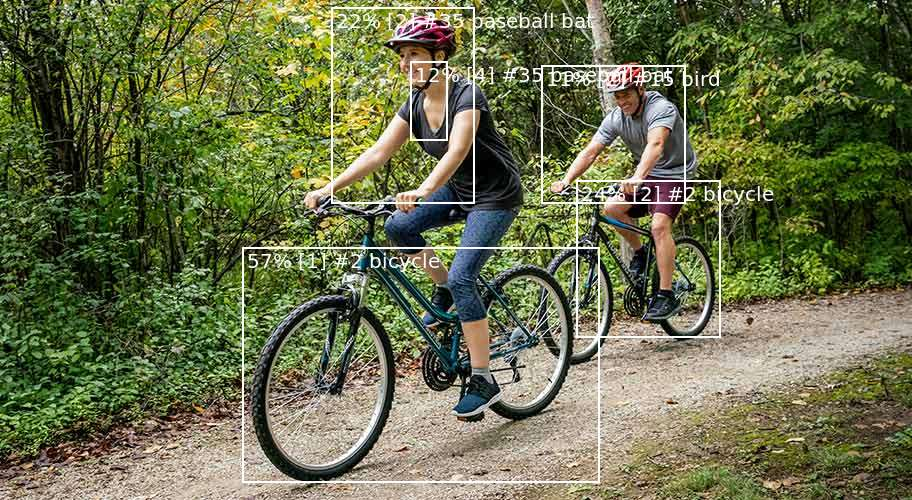
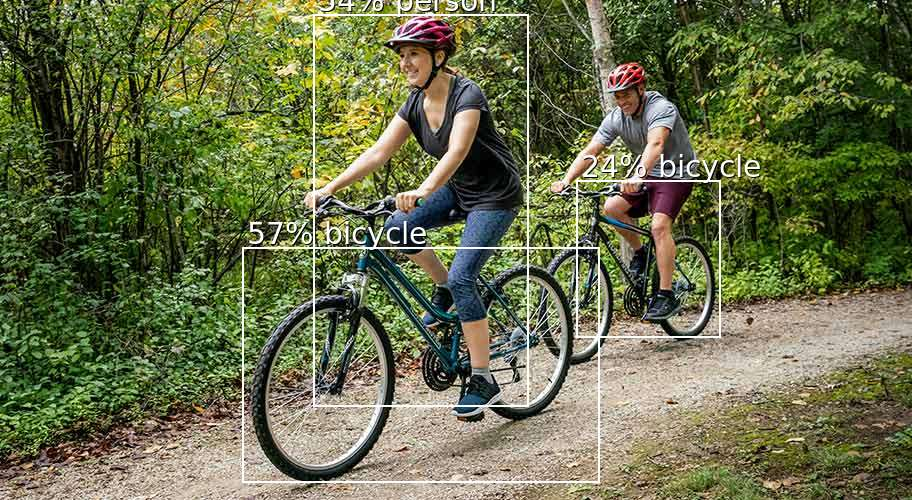
update

diff --git a/nanodet.js b/nanodet.js
@@ -7,9 +7,9 @@ const canvas = require('canvas');
 const { labels } = require('./coco-labels');
 
 const modelOptions = {
-  modelPath: 'file://model-tfjs-graph-m/nanodet.json',
-  minScore: 0.10, // low confidence, but still remove irrelevant
-  iouThreshold: 0.10, // be very aggressive with removing overlapped boxes
+  modelPath: 'file://model-tfjs-graph-t/nanodet.json',
+  minScore: 0.23, // low confidence, but still remove irrelevant
+  iouThreshold: 0.5, // percentage when removing overlapped boxes
   maxResults: 20, // high number of results, but likely never reached
   scaleBox: 2.5, // increase box size
 };
@@ -19,19 +19,25 @@ async function saveImage(img, res) {
   // create canvas
   const c = new canvas.Canvas(img.inputShape[0], img.inputShape[1]);
   const ctx = c.getContext('2d');
-  ctx.lineWidth = 2;
-  ctx.strokeStyle = 'white';
-  ctx.fillStyle = 'white';
-  ctx.font = 'small-caps 20px "Segoe UI"';
 
   // load and draw original image
   const original = await canvas.loadImage(img.fileName);
   ctx.drawImage(original, 0, 0, c.width, c.height);
+  // const fontSize = Math.trunc(c.width / 50);
+  const fontSize = Math.round(Math.sqrt(c.width));
+  ctx.lineWidth = 2;
+  ctx.strokeStyle = 'white';
+  ctx.fillStyle = 'white';
+  ctx.font = `${fontSize}px "Segoe UI"`;
 
   // draw all detected objects
   for (const obj of res) {
     // draw label at center
-    ctx.fillText(`${Math.round(100 * obj.score)}% [${obj.strideSize}] #${obj.class} ${obj.label}`, obj.box[0] + 4, obj.box[1] + 20);
+    // ctx.fillText(`${Math.round(100 * obj.score)}% [${obj.strideSize}] #${obj.class} ${obj.label}`, obj.box[0] + 4, obj.box[1] - 2);
+    ctx.fillStyle = 'black';
+    ctx.fillText(`${Math.round(100 * obj.score)}% ${obj.label}`, obj.box[0] + 5, obj.box[1] - 3);
+    ctx.fillStyle = 'white';
+    ctx.fillText(`${Math.round(100 * obj.score)}% ${obj.label}`, obj.box[0] + 4, obj.box[1] - 4);
     // draw rect using x,y,h,w
     ctx.rect(obj.box[0], obj.box[1], obj.box[2] - obj.box[0], obj.box[3] - obj.box[1]);
   }
@@ -66,50 +72,58 @@ async function loadImage(fileName, inputSize) {
 // process model results
 async function processResults(res, inputSize, outputShape) {
   let results = [];
+  let id = 0;
   for (const strideSize of [1, 2, 4]) { // try each stride size as it detects large/medium/small objects
     // find scores, boxes, classes
     tf.tidy(() => { // wrap in tidy to automatically deallocate temp tensors
       const baseSize = strideSize * 13; // 13x13=169, 26x26=676, 52x52=2704
       // find boxes and scores output depending on stride
-      // log.info('Variation:', strideSize, 'strides', baseSize, 'baseSize');
-      const scores = res.find((a) => (a.shape[1] === (baseSize ** 2) && a.shape[2] === 80))?.squeeze();
-      const features = res.find((a) => (a.shape[1] === (baseSize ** 2) && a.shape[2] === 32))?.squeeze();
-      // log.state('Found features tensor:', features?.shape);
-      // log.state('Found scores tensor:', scores?.shape);
-      const scoreIdx = scores.argMax(1).dataSync(); // location of highest scores
-      const scoresMax = scores.max(1).dataSync(); // values of highest scores
-      const boxesMax = features.reshape([-1, 4, 8]); // reshape [32] to [4,8] where 8 is change of different features inside stride
+      log.info('Variation:', strideSize, 'strides', baseSize, 'baseSize');
+      const scoresT = res.find((a) => (a.shape[1] === (baseSize ** 2) && a.shape[2] === 80))?.squeeze();
+      const featuresT = res.find((a) => (a.shape[1] === (baseSize ** 2) && a.shape[2] < 80))?.squeeze();
+      log.state('Found features tensor:', featuresT?.shape);
+      log.state('Found scores tensor:', scoresT?.shape);
+      // const scoreIdx = scores.argMax(1).dataSync(); // location of highest scores for a given stride
+      // const scoresMax = scores.max(1).dataSync(); // values of highest scores for a given stride
+      const boxesMax = featuresT.reshape([-1, 4, featuresT.shape[1] / 4]); // reshape [32] to [4,8] where 8 is change of different features inside stride
       const boxIdx = boxesMax.argMax(2).arraySync(); // what we need is indexes of features with highest scores, not values itself
-      for (let i = 0; i < scores.shape[0]; i++) {
-        if (scoreIdx[i] !== 0 && scoresMax[i] > modelOptions.minScore) {
-          const cx = (0.5 + Math.trunc(i % baseSize)) / baseSize; // center.x normalized to range 0..1
-          const cy = (0.5 + Math.trunc(i / baseSize)) / baseSize; // center.y normalized to range 0..1
-          const boxOffset = boxIdx[i].map((a) => a * (baseSize / strideSize / inputSize)); // just grab indexes of features with highest scores
-          let boxRaw = [ // results normalized to range 0..1
-            cx - (modelOptions.scaleBox / strideSize * boxOffset[0]),
-            cy - (modelOptions.scaleBox / strideSize * boxOffset[1]),
-            cx + (modelOptions.scaleBox / strideSize * boxOffset[2]),
-            cy + (modelOptions.scaleBox / strideSize * boxOffset[3]),
-          ];
-          boxRaw = boxRaw.map((a) => Math.max(0, Math.min(a, 1))); // fix out-of-bounds coords
-          const box = [ // results normalized to input image pixels
-            boxRaw[0] * outputShape[0],
-            boxRaw[1] * outputShape[1],
-            boxRaw[2] * outputShape[0],
-            boxRaw[3] * outputShape[1],
-          ];
-          const result = {
-            score: scoresMax[i],
-            strideSize,
-            class: scoreIdx[i] + 1,
-            label: labels[scoreIdx[i]].label,
-            center: [Math.trunc(outputShape[0] * cx), Math.trunc(outputShape[1] * cy)],
-            centerRaw: [cx, cy],
-            box: box.map((a) => Math.trunc(a)),
-            boxRaw,
-          };
-          results.push(result);
+      const scores = scoresT.arraySync();
+      for (let i = 0; i < scoresT.shape[0]; i++) {
+        for (let j = 0; j < scoresT.shape[1]; j++) {
+          if (scores[i][j] > modelOptions.minScore) {
+            const cx = (0.5 + Math.trunc(i % baseSize)) / baseSize; // center.x normalized to range 0..1
+            const cy = (0.5 + Math.trunc(i / baseSize)) / baseSize; // center.y normalized to range 0..1
+            const boxOffset = boxIdx[i].map((a) => a * (baseSize / strideSize / inputSize)); // just grab indexes of features with highest scores
+            let boxRaw = [ // results normalized to range 0..1
+              cx - (modelOptions.scaleBox / strideSize * boxOffset[0]),
+              cy - (modelOptions.scaleBox / strideSize * boxOffset[1]),
+              cx + (modelOptions.scaleBox / strideSize * boxOffset[2]),
+              cy + (modelOptions.scaleBox / strideSize * boxOffset[3]),
+            ];
+            boxRaw = boxRaw.map((a) => Math.max(0, Math.min(a, 1))); // fix out-of-bounds coords
+            const box = [ // results normalized to input image pixels
+              boxRaw[0] * outputShape[0],
+              boxRaw[1] * outputShape[1],
+              boxRaw[2] * outputShape[0],
+              boxRaw[3] * outputShape[1],
+            ];
+            const result = {
+              id: id++,
+              strideSize,
+              score: scores[i][j],
+              class: j + 1,
+              label: labels[j].label,
+              center: [Math.trunc(outputShape[0] * cx), Math.trunc(outputShape[1] * cy)],
+              centerRaw: [cx, cy],
+              box: box.map((a) => Math.trunc(a)),
+              boxRaw,
+            };
+            results.push(result);
+          }
         }
+        /*
+        if (scoreIdx[i] !== 0 && scoresMax[i] > modelOptions.minScore) {
+        */
       }
     });
   }
@@ -119,17 +133,15 @@ async function processResults(res, inputSize, outputShape) {
 
   // normally nms is run on raw results, but since boxes need to be calculated this way we skip calulcation of
   // unnecessary boxes and run nms only on good candidates (basically it just does IOU analysis as scores are already filtered)
-  const nmsBoxes = results.map((a) => a.boxRaw);
+  const nmsBoxes = results.map((a) => a.box);
   const nmsScores = results.map((a) => a.score);
   const nms = await tf.image.nonMaxSuppressionAsync(nmsBoxes, nmsScores, modelOptions.maxResults, modelOptions.iouThreshold, modelOptions.minScore);
   const nmsIdx = nms.dataSync();
   tf.dispose(nms);
-
   // filter & sort results
   results = results
     .filter((a, idx) => nmsIdx.includes(idx))
     .sort((a, b) => b.score - a.score);
-
   return results;
 }
 
@@ -145,6 +157,8 @@ async function main() {
   // load model
   const model = await tf.loadGraphModel(modelOptions.modelPath);
   log.info('Loaded model', modelOptions, 'tensors:', tf.engine().memory().numTensors, 'bytes:', tf.engine().memory().numBytes);
+  // @ts-ignore
+  log.info('Model Signature', model.signature);
 
   // load image and get approprite tensor for it
   const inputSize = Object.values(model.modelSignature['inputs'])[0].tensorShape.dim[2].size;
